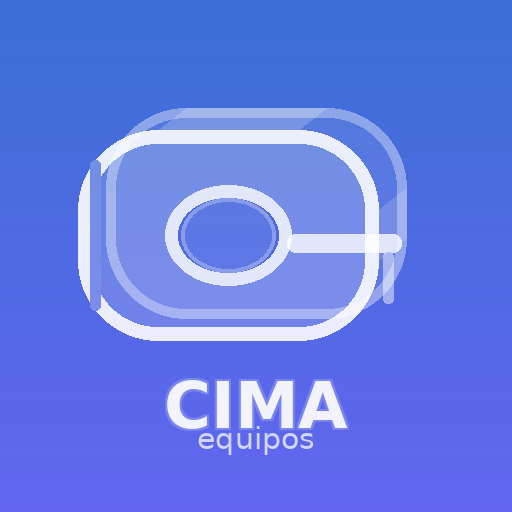
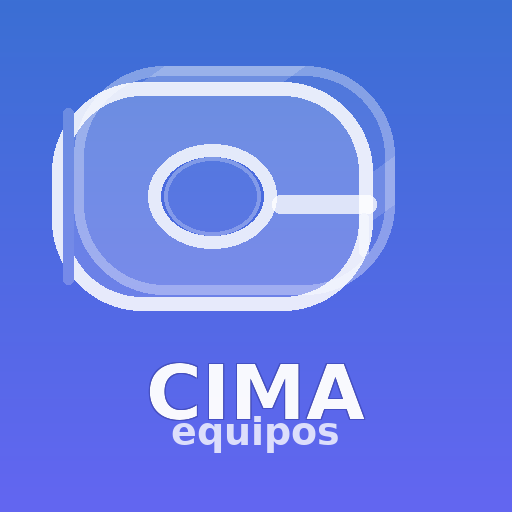
Ícono más grande/legible + precomposed para evitar borde blanco iOS
https://claude.ai/code/session_01JkX7HJH5wp6UYnWdZCAMFt

Changed region(s): [[0.0938, 0.125, 0.8125, 0.9062]]

diff --git a/index.html b/index.html
@@ -7,10 +7,10 @@
 <meta name="apple-mobile-web-app-capable" content="yes">
 <meta name="apple-mobile-web-app-status-bar-style" content="default">
 <meta name="apple-mobile-web-app-title" content="MedTrack">
-<link rel="apple-touch-icon" id="ati-180" href="icon.png">
-<link rel="apple-touch-icon" sizes="152x152" id="ati-152" href="icon.png">
-<link rel="apple-touch-icon" sizes="167x167" id="ati-167" href="icon.png">
-<link rel="apple-touch-icon" sizes="180x180" id="ati-180b" href="icon.png">
+<link rel="apple-touch-icon-precomposed" sizes="180x180" href="icon.png">
+<link rel="apple-touch-icon-precomposed" sizes="167x167" href="icon.png">
+<link rel="apple-touch-icon-precomposed" sizes="152x152" href="icon.png">
+<link rel="apple-touch-icon-precomposed" href="icon.png">
 <script>
 (function(){
   function makeIcon(size){